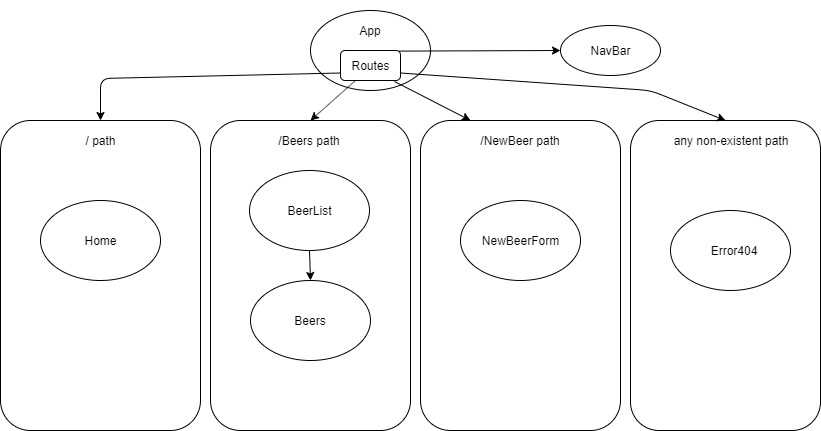
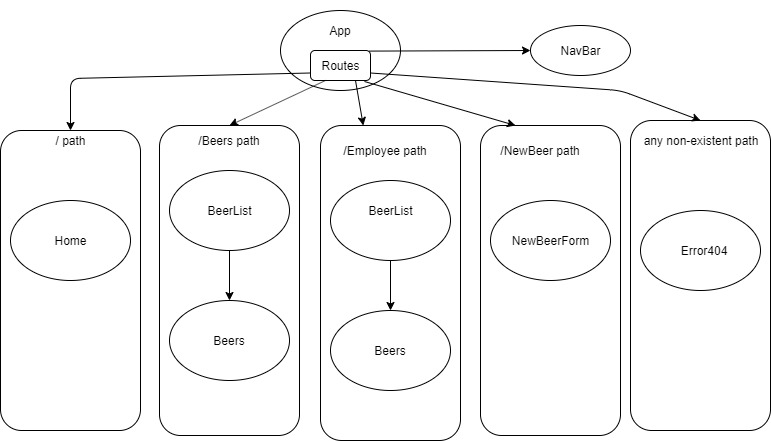
update component diagram in readme and refactor for submission

diff --git a/src/components/Beers.jsx b/src/components/Beers.jsx
@@ -3,7 +3,7 @@ import PropTypes from "prop-types";
 import EditBeerForm from "./EditBeerForm";
 
 function Beer(props) {
-  let modalContent ='';
+  let modalContent ="";
   var imageStyle = {
     maxwidth: "200px",
     maxHeight: "200px",
@@ -31,7 +31,6 @@ function Beer(props) {
     left: "0",
     top: "0",
     overflow: "auto", 
-    backgroundColor: "rgb(0, 0, 0)",
     backgroundColor: "rgba(0, 0, 0, 0.4)"
   };
 
@@ -62,18 +61,18 @@ function Beer(props) {
 
   function showEditBeerForm() {
     document.getElementById("editModal").style.display = "block";
-    console.log(props.id)
+    console.log(props.id);
     modalContent = < EditBeerForm name = { props.name }
-    photo = { props.photo }
-    style = { props.style }
-    abv = { props.abv }
-    price = { props.price }
-    description = { props.description }
-    pintsLeft = { props.pintsLeft }
-    key = { props.id }
-    id = { props.id }
-    onEditBeer = { props.onEditBeer }
-    modal = { document.getElementById("editModal") } />;
+      photo = { props.photo }
+      style = { props.style }
+      abv = { props.abv }
+      price = { props.price }
+      description = { props.description }
+      pintsLeft = { props.pintsLeft }
+      key = { props.id }
+      id = { props.id }
+      onEditBeer = { props.onEditBeer }
+      modal = { document.getElementById("editModal") } />;
   }
 
   let subButton = props.currentRouterPath === "/employee" ? <button onClick={handleSubtractPint}>Subtract Pint</button> : "";
@@ -90,7 +89,7 @@ function Beer(props) {
         <h5>{props.description}</h5>
         {pintsLeft}
         {subButton}
-        {editButton}
+        {/* {editButton} */}
       </div>
     </div>
   </div>;
@@ -98,7 +97,7 @@ function Beer(props) {
     if (event.target == document.getElementById("editModal")) {
       document.getElementById("editModal").style.display = "none";
     }
-  }
+  };
 
 
 

diff --git a/src/components/BeerList.jsx b/src/components/BeerList.jsx
@@ -1,5 +1,6 @@
 import React from "react";
 import Beer from "./Beers";
+import PropTypes from "prop-types";
 
 class BeerList extends React.Component {
   constructor(props){
@@ -31,11 +32,11 @@ class BeerList extends React.Component {
 
     return (
       <div>
-          <h5 style={{ color: "#d217ec", textAlign: "center"}}>Sort by:</h5>
+        <h5 style={{ color: "#d217ec", textAlign: "center"}}>Sort by:</h5>
         <div style={sortButtonBar}>
-          <button style={sortButton} onClick={() => { this.handleChangeSortOrder(this.props.masterBeerList.sort((a, b) => a.price - b.price))}}>Ascending Price</button>
-          <button style={sortButton} onClick={() => { this.handleChangeSortOrder(this.props.masterBeerList.sort((a, b) => b.price - a.price)) }}>Descending Price</button>
-          <button style={sortButton} onClick={() => { this.handleChangeSortOrder(this.props.masterBeerList.sort((a, b) => a.pintsLeft - b.pintsLeft)) }}>Pints Remaining</button>
+          <button style={sortButton} onClick={() => { this.handleChangeSortOrder(this.props.masterBeerList.sort((a, b) => a.price - b.price));}}>Ascending Price</button>
+          <button style={sortButton} onClick={() => { this.handleChangeSortOrder(this.props.masterBeerList.sort((a, b) => b.price - a.price)); }}>Descending Price</button>
+          <button style={sortButton} onClick={() => { this.handleChangeSortOrder(this.props.masterBeerList.sort((a, b) => a.pintsLeft - b.pintsLeft)); }}>Pints Remaining</button>
         </div><br/>
         {this.props.masterBeerList.map((beer, index) =>
           <Beer name={beer.name}
@@ -55,5 +56,12 @@ class BeerList extends React.Component {
     );
   }
 }
+
+BeerList.propTypes = {
+  masterBeerList: PropTypes.array,
+  currentRouterPath: PropTypes.string,
+  onSubtractPint: PropTypes.func,
+  onEditBeer: PropTypes.func
+};
 
 export default BeerList;

diff --git a/src/components/EditBeerForm.jsx b/src/components/EditBeerForm.jsx
@@ -70,7 +70,13 @@ function EditBeerForm(props) {
 }
 
 EditBeerForm.propTypes = {
-  onAddNewBeer: PropTypes.func
+  name: PropTypes.string,
+  photo: PropTypes.string,
+  style: PropTypes.string,
+  abv: PropTypes.string,
+  price: PropTypes.string,
+  description: PropTypes.string,
+  onEditBeer: PropTypes.func
 };
 
 export default EditBeerForm;

diff --git a/src/components/Employee.jsx b/src/components/Employee.jsx
@@ -15,7 +15,10 @@ function Employee(props){
 }
 
 Employee.propTypes = {
-  beetList: PropTypes.array,
+  masterBeerList: PropTypes.array,
+  currentRouterPath: PropTypes.string,
+  onSubtractPint: PropTypes.func,
+  onEditBeer: PropTypes.func
 };
 
 export default Employee;
